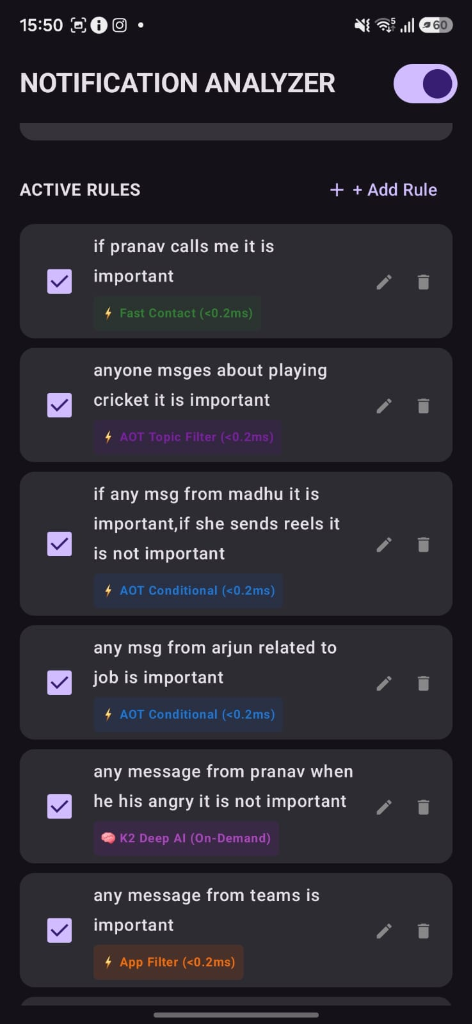
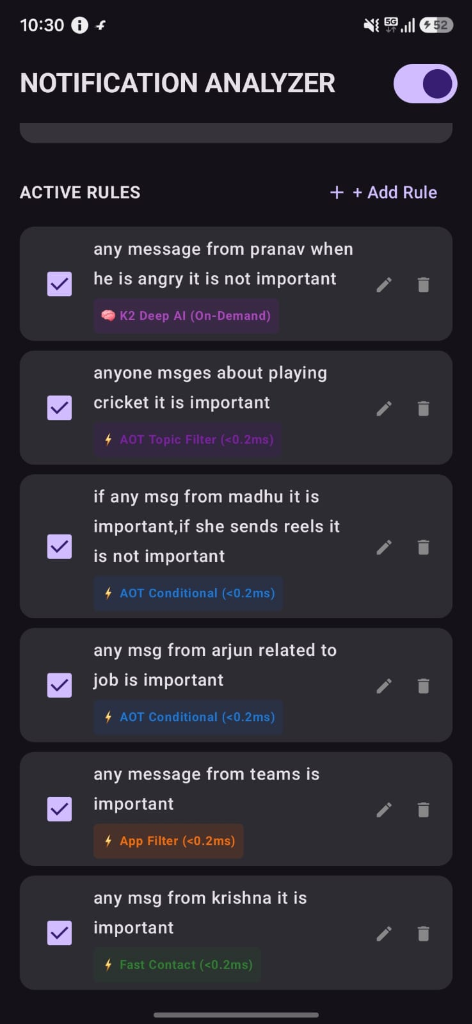
docs(blog): update active rules screenshot and categorization list

diff --git a/blog/index.html b/blog/index.html
@@ -463,29 +463,34 @@
           <div class="md:col-span-7 space-y-2.5 text-sm">
             <div class="text-xs font-semibold text-slate-500 uppercase tracking-wider">How K2 Categorized Each Rule:</div>
             
-            <div class="p-2.5 rounded-lg bg-white border border-slate-200 flex items-center justify-between">
-              <span class="text-xs font-mono text-slate-900 font-semibold">"if pranav calls me it is important"</span>
-              <span class="text-xs text-emerald-700 font-medium">Fast Contact (&lt;0.2ms)</span>
+            <div class="p-2.5 rounded-lg bg-white border border-slate-200 flex items-center justify-between gap-2">
+              <span class="text-xs font-mono text-slate-900 font-semibold">"any message from pranav when he is angry it is not important"</span>
+              <span class="text-xs text-purple-600 font-medium shrink-0">K2 Deep AI (On-Demand)</span>
             </div>
 
-            <div class="p-2.5 rounded-lg bg-white border border-slate-200 flex items-center justify-between">
+            <div class="p-2.5 rounded-lg bg-white border border-slate-200 flex items-center justify-between gap-2">
               <span class="text-xs font-mono text-slate-900 font-semibold">"anyone msges about playing cricket it is important"</span>
-              <span class="text-xs text-purple-700 font-medium">AOT Topic Filter (&lt;0.2ms)</span>
+              <span class="text-xs text-purple-700 font-medium shrink-0">AOT Topic Filter (&lt;0.2ms)</span>
             </div>
 
-            <div class="p-2.5 rounded-lg bg-white border border-slate-200 flex items-center justify-between">
-              <span class="text-xs font-mono text-slate-900 font-semibold">"if any msg from madhu it is important, if she sends reels it is not important"</span>
-              <span class="text-xs text-blue-700 font-medium">AOT Conditional (&lt;0.2ms)</span>
+            <div class="p-2.5 rounded-lg bg-white border border-slate-200 flex items-center justify-between gap-2">
+              <span class="text-xs font-mono text-slate-900 font-semibold">"if any msg from madhu it is important,if she sends reels it is not important"</span>
+              <span class="text-xs text-blue-700 font-medium shrink-0">AOT Conditional (&lt;0.2ms)</span>
             </div>
 
-            <div class="p-2.5 rounded-lg bg-white border border-slate-200 flex items-center justify-between">
-              <span class="text-xs font-mono text-slate-900 font-semibold">"any message from pranav when he his angry it is not important"</span>
-              <span class="text-xs text-purple-600 font-medium">K2 Deep AI (On-Demand)</span>
+            <div class="p-2.5 rounded-lg bg-white border border-slate-200 flex items-center justify-between gap-2">
+              <span class="text-xs font-mono text-slate-900 font-semibold">"any msg from arjun related to job is important"</span>
+              <span class="text-xs text-blue-700 font-medium shrink-0">AOT Conditional (&lt;0.2ms)</span>
             </div>
 
-            <div class="p-2.5 rounded-lg bg-white border border-slate-200 flex items-center justify-between">
+            <div class="p-2.5 rounded-lg bg-white border border-slate-200 flex items-center justify-between gap-2">
               <span class="text-xs font-mono text-slate-900 font-semibold">"any message from teams is important"</span>
-              <span class="text-xs text-amber-700 font-medium">App Filter (&lt;0.2ms)</span>
+              <span class="text-xs text-amber-700 font-medium shrink-0">App Filter (&lt;0.2ms)</span>
+            </div>
+
+            <div class="p-2.5 rounded-lg bg-white border border-slate-200 flex items-center justify-between gap-2">
+              <span class="text-xs font-mono text-slate-900 font-semibold">"any msg from krishna it is important"</span>
+              <span class="text-xs text-emerald-700 font-medium shrink-0">Fast Contact (&lt;0.2ms)</span>
             </div>
           </div>
         </div>

diff --git a/blog/post.html b/blog/post.html
@@ -463,29 +463,34 @@
           <div class="md:col-span-7 space-y-2.5 text-sm">
             <div class="text-xs font-semibold text-slate-500 uppercase tracking-wider">How K2 Categorized Each Rule:</div>
             
-            <div class="p-2.5 rounded-lg bg-white border border-slate-200 flex items-center justify-between">
-              <span class="text-xs font-mono text-slate-900 font-semibold">"if pranav calls me it is important"</span>
-              <span class="text-xs text-emerald-700 font-medium">Fast Contact (&lt;0.2ms)</span>
+            <div class="p-2.5 rounded-lg bg-white border border-slate-200 flex items-center justify-between gap-2">
+              <span class="text-xs font-mono text-slate-900 font-semibold">"any message from pranav when he is angry it is not important"</span>
+              <span class="text-xs text-purple-600 font-medium shrink-0">K2 Deep AI (On-Demand)</span>
             </div>
 
-            <div class="p-2.5 rounded-lg bg-white border border-slate-200 flex items-center justify-between">
+            <div class="p-2.5 rounded-lg bg-white border border-slate-200 flex items-center justify-between gap-2">
               <span class="text-xs font-mono text-slate-900 font-semibold">"anyone msges about playing cricket it is important"</span>
-              <span class="text-xs text-purple-700 font-medium">AOT Topic Filter (&lt;0.2ms)</span>
+              <span class="text-xs text-purple-700 font-medium shrink-0">AOT Topic Filter (&lt;0.2ms)</span>
             </div>
 
-            <div class="p-2.5 rounded-lg bg-white border border-slate-200 flex items-center justify-between">
-              <span class="text-xs font-mono text-slate-900 font-semibold">"if any msg from madhu it is important, if she sends reels it is not important"</span>
-              <span class="text-xs text-blue-700 font-medium">AOT Conditional (&lt;0.2ms)</span>
+            <div class="p-2.5 rounded-lg bg-white border border-slate-200 flex items-center justify-between gap-2">
+              <span class="text-xs font-mono text-slate-900 font-semibold">"if any msg from madhu it is important,if she sends reels it is not important"</span>
+              <span class="text-xs text-blue-700 font-medium shrink-0">AOT Conditional (&lt;0.2ms)</span>
             </div>
 
-            <div class="p-2.5 rounded-lg bg-white border border-slate-200 flex items-center justify-between">
-              <span class="text-xs font-mono text-slate-900 font-semibold">"any message from pranav when he his angry it is not important"</span>
-              <span class="text-xs text-purple-600 font-medium">K2 Deep AI (On-Demand)</span>
+            <div class="p-2.5 rounded-lg bg-white border border-slate-200 flex items-center justify-between gap-2">
+              <span class="text-xs font-mono text-slate-900 font-semibold">"any msg from arjun related to job is important"</span>
+              <span class="text-xs text-blue-700 font-medium shrink-0">AOT Conditional (&lt;0.2ms)</span>
             </div>
 
-            <div class="p-2.5 rounded-lg bg-white border border-slate-200 flex items-center justify-between">
+            <div class="p-2.5 rounded-lg bg-white border border-slate-200 flex items-center justify-between gap-2">
               <span class="text-xs font-mono text-slate-900 font-semibold">"any message from teams is important"</span>
-              <span class="text-xs text-amber-700 font-medium">App Filter (&lt;0.2ms)</span>
+              <span class="text-xs text-amber-700 font-medium shrink-0">App Filter (&lt;0.2ms)</span>
+            </div>
+
+            <div class="p-2.5 rounded-lg bg-white border border-slate-200 flex items-center justify-between gap-2">
+              <span class="text-xs font-mono text-slate-900 font-semibold">"any msg from krishna it is important"</span>
+              <span class="text-xs text-emerald-700 font-medium shrink-0">Fast Contact (&lt;0.2ms)</span>
             </div>
           </div>
         </div>

diff --git a/README.md b/README.md
@@ -76,7 +76,7 @@ Running model inference on every incoming notification was fundamentally the wro
    - It compiles the natural language intent into a structured JSON schema and saves it as either a **Simple Rule** or a **Complex Rule**.
 2. **2. Notification Arrives (AI Rule Engine)**:
    - **Simple Rules (Apps, Names, Keywords, Exclusions)**: Evaluated instantly by the **Fast Classifier (`<0.2 ms`)** in native memory with zero heat and zero battery drain.
-   - **Complex Rules (Tone, Emotion, Context)**: If and only if a rule requires sentiment or emotional nuance (e.g., *"any message from pranav when he his angry it is not important"*), the notification is routed to **K2 Horizon AI** on-demand for deep reasoning.
+   - **Complex Rules (Tone, Emotion, Context)**: If and only if a rule requires sentiment or emotional nuance (e.g., *"any message from pranav when he is angry it is not important"*), the notification is routed to **K2 Horizon AI** on-demand for deep reasoning.
 3. **3. Result & Action**:
    - **High-Priority Alert**: Triggers a sound chime and custom vibration even if phone notification volume is muted or set to zero.
    - **Silence Quietly**: Silences non-priority notifications without interruption.
@@ -205,7 +205,7 @@ Tested on a physical **8GB RAM Android device** under regular daily use:
 | **`Fast Contact`** | Fast Classifier (`<0.2ms`) | *"if pranav calls me it is important"* |
 | **`AOT Topic Filter`** | Fast Classifier (`<0.2ms`) | *"anyone msges about playing cricket it is important"* |
 | **`AOT Conditional`** | Fast Classifier (`<0.2ms`) | *"if any msg from madhu it is important, if she sends reels it is not important"* |
-| **`Deep AI Emotion`** | K2 Horizon AI (`On-Demand`) | *"any message from pranav when he his angry it is not important"*, *"Alert if boss sounds furious"* |
+| **`Deep AI Emotion`** | K2 Horizon AI (`On-Demand`) | *"any message from pranav when he is angry it is not important"*, *"Alert if boss sounds furious"* |
 
 ---
 
